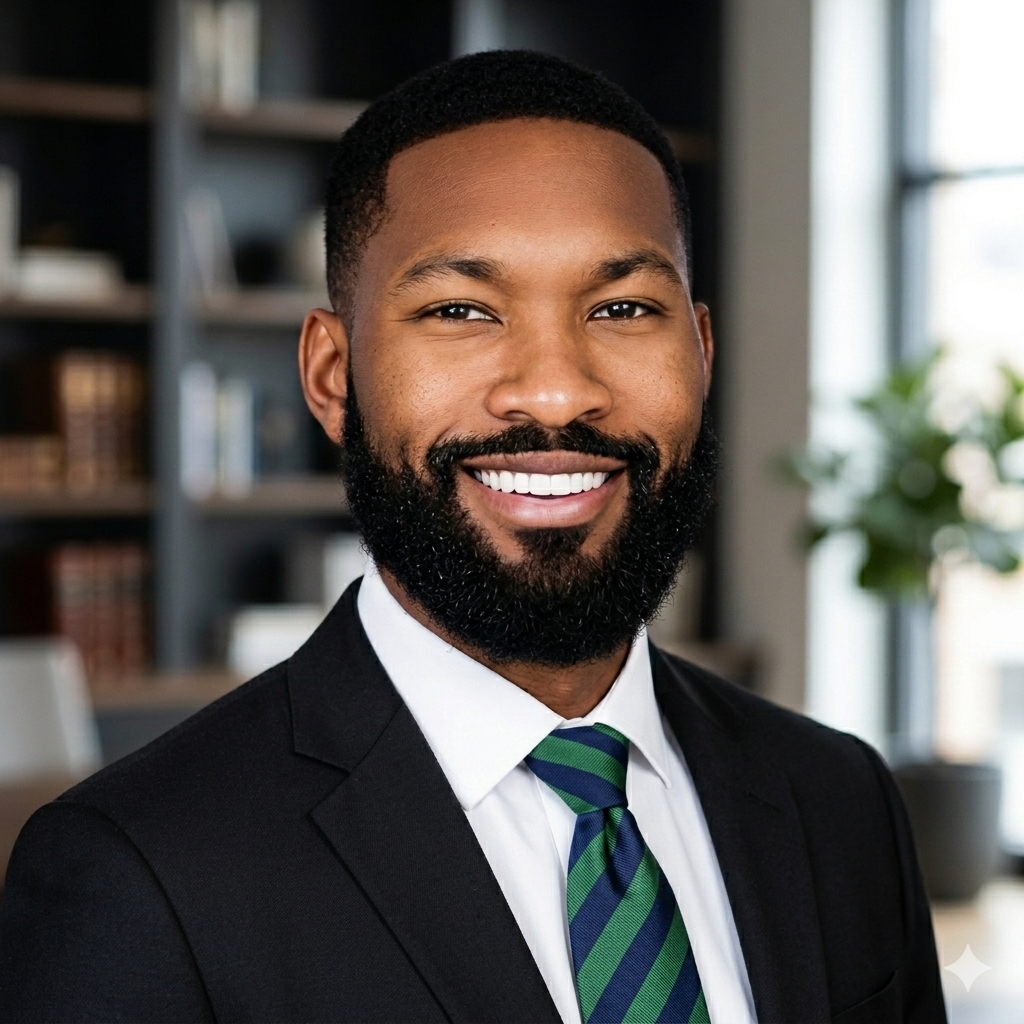
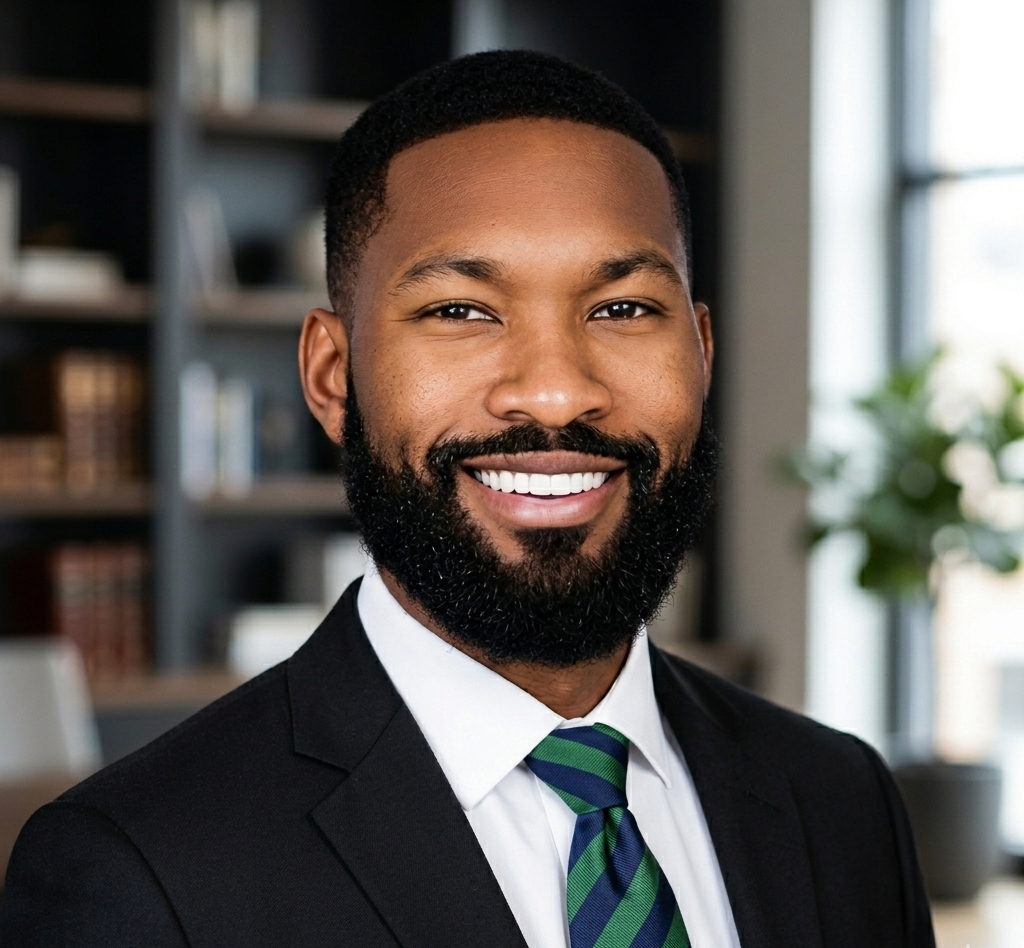
update portfolio

diff --git a/index.html b/index.html
@@ -382,7 +382,7 @@ body::after{content:'';position:fixed;inset:0;pointer-events:none;opacity:0.025;
     </div>
     <div class="about-grid sr">
       <div class="about-photo">
-        <img src="https://raw.githubusercontent.com/Willie-Conway/Portfolio-Website/refs/heads/main/assets/IMG_7238.png" alt="Willie Conway">
+        <img src="https://raw.githubusercontent.com/Willie-Conway/Portfolio-Website/refs/heads/main/assets/Profile%20Pic%202.png" alt="Willie Conway">
         <div class="about-photo-label">
           <span class="label">Beaufort, SC</span>
         </div>
